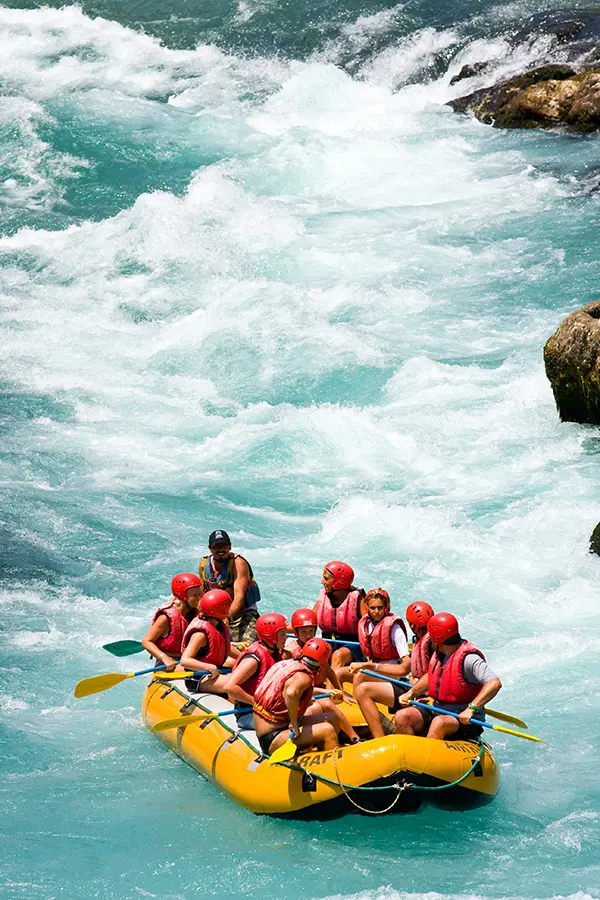
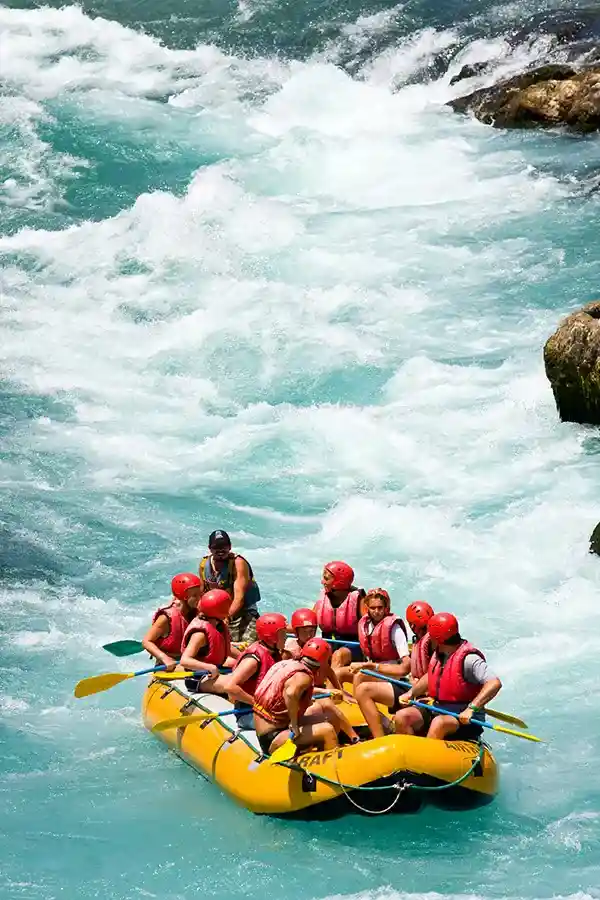
Images further optomized site-wide

diff --git a/wwr/about.html b/wwr/about.html
@@ -21,10 +21,10 @@
     </header>
     <main>
         <div class="hero">
-            <img src="images/about-us.jpg" alt="Going in for a Surf">
+            <img src="images/about-us.webp" alt="Going in for a Surf">
             <h1>About Us — White Water Rafting Company</h1>
             <article>
-                <img src="images/rafting-success.jpg" alt="Crew and Client Candid">
+                <img src="images/rafting-success.webp" alt="Crew and Client Candid">
                 <p><span class="article-title">Our Mission:</span> Lorem ipsum dolor, sit amet consectetur adipisicing elit. Doloremque, nulla iusto quisquam nisi minima, iste sit animi assumenda, incidunt atque vero? Dolores cumque sequi eveniet? Repudiandae nulla maxime aperiam magni ipsum consequuntur molestias corrupti saepe voluptas exercitationem eveniet obcaecati reiciendis ipsam facilis et quo, atque ipsum culpa!</p>
             </article>
         </div>
@@ -40,11 +40,11 @@
             <h2>Adventure Awaits You!</h2>
             <div class="adventure-images">
                 <figure>
-                    <img src="images/slingshot.jpg" alt="Slingshot Rapids">
+                    <img src="images/slingshot.webp" alt="Slingshot Rapids">
                     <figcaption>Slingshot</figcaption>
                 </figure>
                 <figure>
-                    <img src="images/inner-city-strife.jpg" alt="Inner City Strife Rapids">
+                    <img src="images/inner-city-strife.webp" alt="Inner City Strife Rapids">
                     <figcaption>Inner City Strife</figcaption>
                 </figure>
                 <figure>
@@ -52,7 +52,7 @@
                     <figcaption>El Reino</figcaption>
                 </figure>
                 <figure>
-                    <img src="images/knifes-edge.jpg" alt="Knife's Edge Rapids">
+                    <img src="images/knifes-edge.webp" alt="Knife's Edge Rapids">
                     <figcaption>Knife's Edge</figcaption>
                 </figure>
                 <figure>

diff --git a/wwr/trips.html b/wwr/trips.html
@@ -23,21 +23,21 @@
             <h1>Trips</h1>
             <figure>
                 <div>
-                    <img src="images/slingshot.jpg" alt="Slingshot Rapids">
+                    <img src="images/slingshot.webp" alt="Slingshot Rapids">
                     <img src="images/rafting-success.jpg" alt="Whitecaps Rapids">
                 </div>
                 <figcaption>Up the River – Low Difficulty</figcaption>
             </figure>
             <figure>
                 <div>
-                    <img src="images/inner-city-strife.jpg" alt="Inner City Strife Rapids">
+                    <img src="images/inner-city-strife.webp" alt="Inner City Strife Rapids">
                     <img src="images/surf-city.webp" alt="Surf City Rapids">
                 </div>
                 <figcaption>Surfers Dream – Medium Difficulty</figcaption>
             </figure>
             <figure>
                 <div>
-                    <img src="images/knifes-edge.jpg" alt="Knife's Edge Rapids">
+                    <img src="images/knifes-edge.webp" alt="Knife's Edge Rapids">
                     <img class="el-reino" src="images/el-reino-trips.webp" alt="El Reino Rapids">
                 </div>
                 <figcaption>The Gambit – Most Difficult</figcaption>
